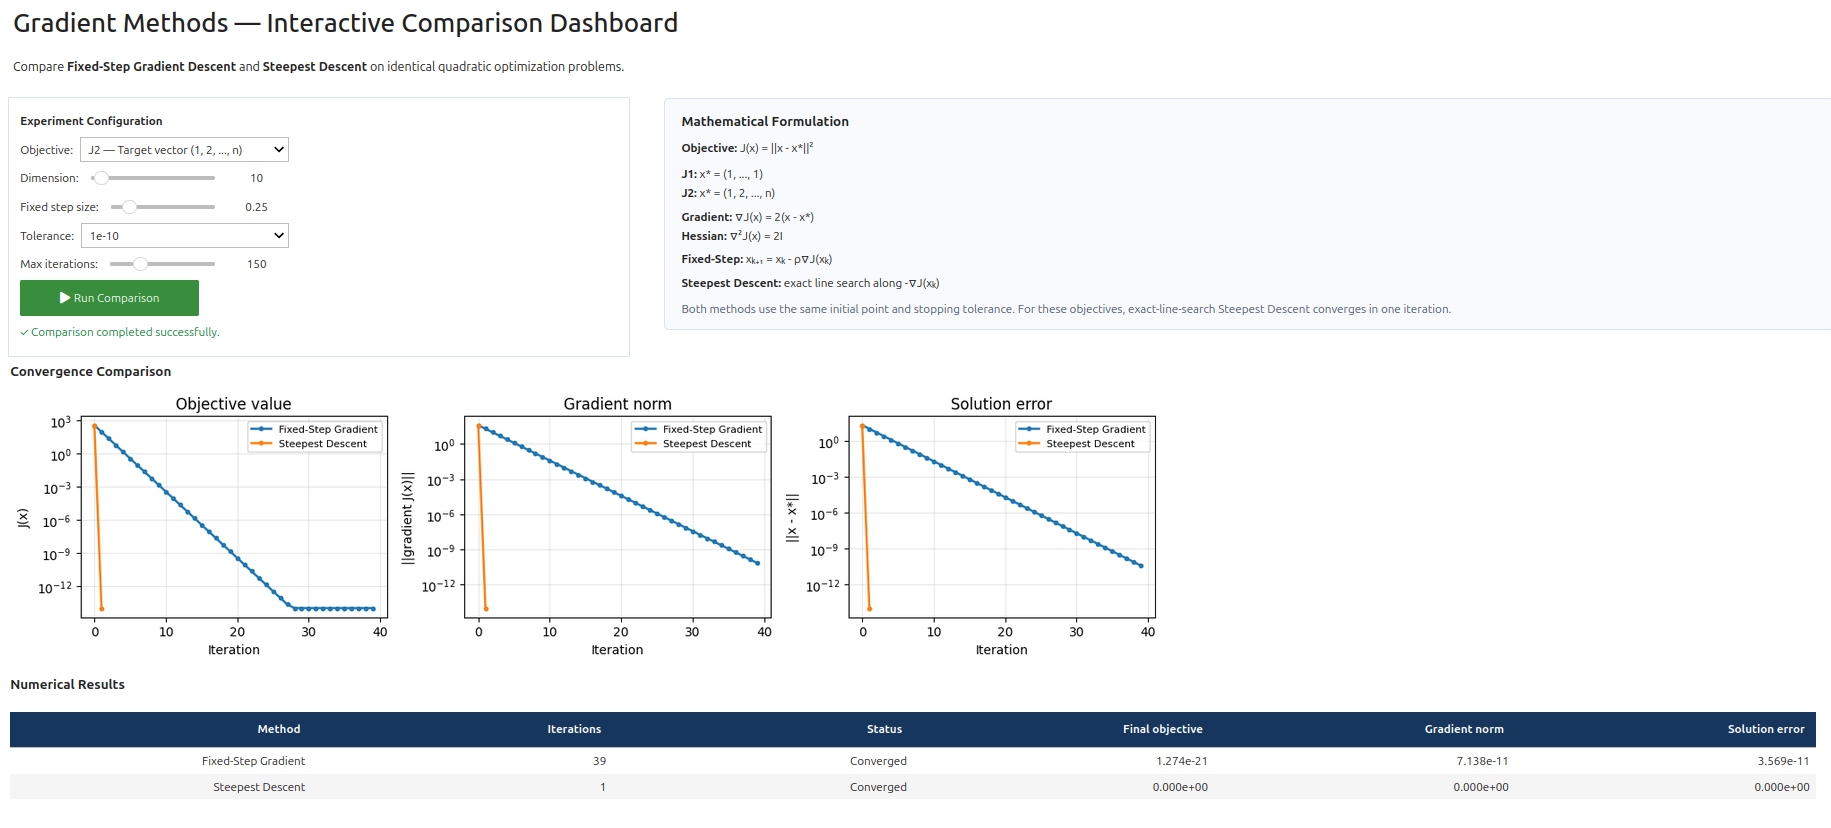
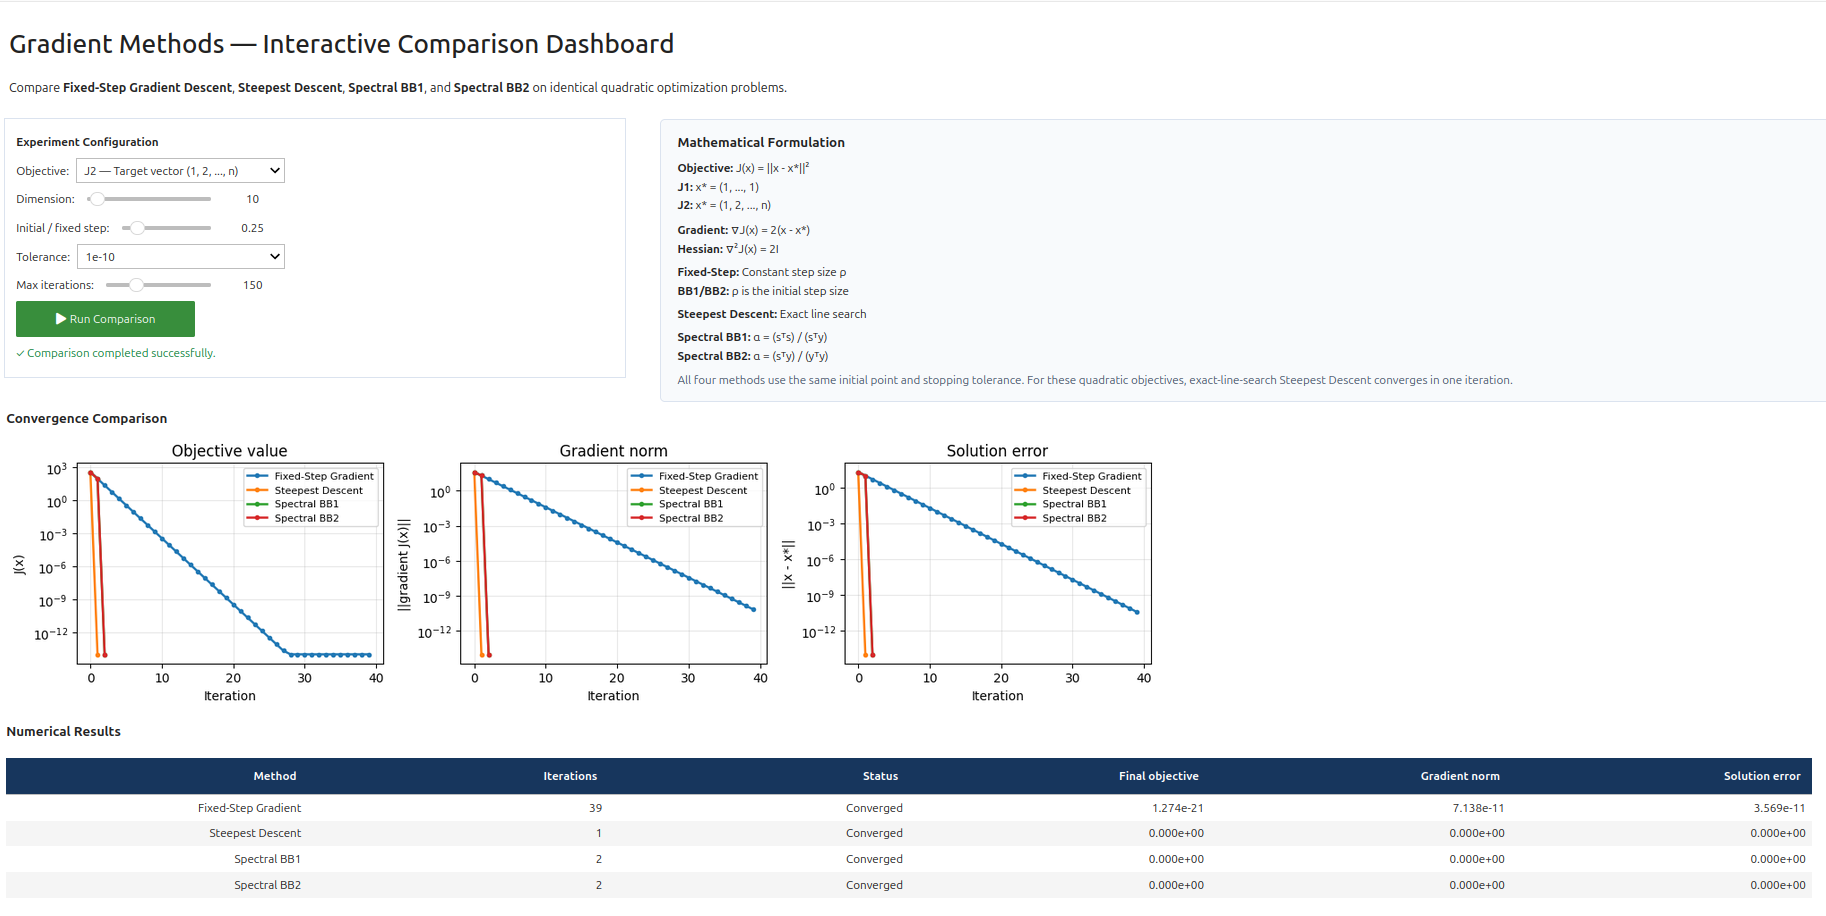
Extend gradient methods comparison dashboard with spectral BB1 and BB2

diff --git a/gradient_methods/README.md b/gradient_methods/README.md
@@ -10,55 +10,65 @@ This directory contains reusable Python solvers, numerical tests, mathematical d
 
 ---
 
-## Main idea
-
-Gradient methods minimize differentiable objective functions by iteratively moving in the direction of the negative gradient. Consider
-
-<p align="center">$\displaystyle
-\min_{x \in \mathbb{R}^n} f(x).
-$</p>
-
-Starting from an initial point $x_0$, the general iteration is
-
-<p align="center">$\displaystyle
-x_{k+1}=x_k-\alpha_k\nabla f(x_k),
-$</p>
-
-where $\nabla f(x_k)$ is the gradient and $\alpha_k>0$ is the step size.
-
-Different gradient methods are distinguished by how they choose $\alpha_k$:
-
-- **Fixed-Step Gradient Descent:** Uses a constant step size.
-- **Steepest Descent:** Determines the step size using a line-search procedure.
-- **Spectral Gradient (BB1/BB2):** Estimates the step size from differences between successive iterates and gradients.
-
-Convergence depends on the objective function and the step-size strategy. In particular, spectral gradient methods may exhibit nonmonotonic objective values.
-
-## Implemented methods
+## Available Methods
 
 | Method | Implementation | Documentation | Interactive Notebook | Voilà Dashboard |
 |---|---|---|---|---|
 | **Fixed-Step Gradient Descent** | [Solver](fixed_step_gradient_solver/FixedStepGradient.py) | [README](fixed_step_gradient_solver/README.md) | [Notebook](notebooks/fixed_step_gradient_demo.ipynb) | [Launch Dashboard](https://mybinder.org/v2/gh/amalmach/Numerical-Optimization-and-Iterative-Methods/main?urlpath=voila%2Frender%2Fgradient_methods%2Fnotebooks%2Ffixed_step_gradient_demo.ipynb) |
 | **Steepest Descent** | [Solver](steepest_descent_solver/SteepestDescent.py) | [README](steepest_descent_solver/README.md) | [Notebook](notebooks/steepest_descent_demo.ipynb) | [Launch Dashboard](https://mybinder.org/v2/gh/amalmach/Numerical-Optimization-and-Iterative-Methods/main?urlpath=voila%2Frender%2Fgradient_methods%2Fnotebooks%2Fsteepest_descent_demo.ipynb) |
-| **Gradient Methods Comparison** | Fixed-Step vs Steepest Descent | — | [Notebook](notebooks/gradient_methods_comparison_demo.ipynb) | [Launch Dashboard](https://mybinder.org/v2/gh/amalmach/Numerical-Optimization-and-Iterative-Methods/main?urlpath=voila%2Frender%2Fgradient_methods%2Fnotebooks%2Fgradient_methods_comparison_demo.ipynb) |
 | **Spectral Gradient (BB1/BB2)** | [Solver](spectral_gradient_solver/SpectralGradient.py) | [README](spectral_gradient_solver/README.md) | [Notebook](notebooks/spectral_gradient_demo.ipynb) | [Launch Dashboard](https://mybinder.org/v2/gh/amalmach/Numerical-Optimization-and-Iterative-Methods/main?urlpath=voila%2Frender%2Fgradient_methods%2Fnotebooks%2Fspectral_gradient_demo.ipynb) |
+| **Gradient Methods Comparison** | Fixed-Step vs Steepest Descent vs Spectral (BB1/BB2) | — | [Notebook](notebooks/gradient_methods_comparison_demo.ipynb) | [Launch Dashboard](https://mybinder.org/v2/gh/amalmach/Numerical-Optimization-and-Iterative-Methods/main?urlpath=voila%2Frender%2Fgradient_methods%2Fnotebooks%2Fgradient_methods_comparison_demo.ipynb) |
 
 > Binder may require some time to initialize the environment on the first launch.
 
-## Interactive Dashboards
+## Mathematical Overview
 
-The Voilà dashboards let you run experiments directly in your browser without installing Python locally.
+Both methods minimize a differentiable objective function:
 
-### Gradient Methods Comparison Dashboard
+<p align="center">$\displaystyle \min_{x \in \mathbb{R}^n} f(x).
+$</p>
 
-Compare **Fixed-Step Gradient Descent** and **Steepest Descent with Exact Line Search** on identical quadratic optimization problems.
+The general gradient iteration is:
 
-The interactive dashboard provides:
+<p align="center">$\displaystyle x_{k+1} = x_k - \alpha_k \nabla f(x_k).
+$</p>
 
-- **Shared experiment controls:** Select the objective function, problem dimension, fixed step size, convergence tolerance, and iteration budget.
-- **Three convergence plots:** Compare objective values, gradient norms, and solution errors.
-- **Numerical comparison table:** Examine iteration counts, convergence status, final objective values, gradient norms, and solution errors.
-- **Interactive status indicators:** Identify when results are up to date or need to be recalculated.
+### Fixed-Step Gradient Descent
+
+Uses a constant learning rate:
+
+<p align="center">$\displaystyle \alpha_k = \alpha > 0.
+$</p>
+
+Its convergence depends on the objective function and the chosen step size.
+
+### Steepest Descent
+
+Uses the negative gradient as the search direction, with a step length determined by the algorithm:
+
+<p align="center">$\displaystyle x_{k+1} = x_k - \alpha_k \nabla f(x_k).
+$</p>
+
+See the individual method documentation for implementation details and numerical experiments.
+
+### Spectral Gradient (Barzilai–Borwein)
+
+Uses information from successive iterates and gradients to estimate suitable step sizes.
+
+Two variants are implemented:
+
+- **BB1:** Uses the ratio of the squared step norm to the step-gradient inner product.
+- **BB2:** Uses the ratio of the step-gradient inner product to the squared gradient-difference norm.
+
+Unlike exact line search, spectral step sizes do not necessarily produce a decrease in the objective at every iteration.
+
+See the [Spectral Gradient documentation](spectral_gradient_solver/README.md) for mathematical formulas, numerical safeguards, and experiments.
+
+## Interactive Gradient Methods Comparison Dashboard
+
+Compare **Fixed-Step Gradient Descent**, **Steepest Descent with Exact Line Search**, and the two **Barzilai–Borwein spectral gradient methods (BB1 and BB2)** on identical quadratic optimization problems.
+
+The interactive dashboard provides shared experiment controls, convergence plots for objective values, gradient norms, and solution errors, and a numerical table comparing all four methods. A status indicator reminds users to rerun the comparison whenever parameters change.
 
 [![Launch Gradient Methods Comparison Dashboard](https://img.shields.io/badge/LAUNCH-GRADIENT%20COMPARISON-2ea44f?style=for-the-badge)](https://mybinder.org/v2/gh/amalmach/Numerical-Optimization-and-Iterative-Methods/main?urlpath=voila%2Frender%2Fgradient_methods%2Fnotebooks%2Fgradient_methods_comparison_demo.ipynb)
 
